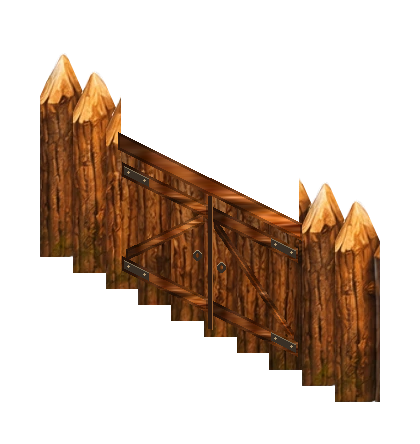
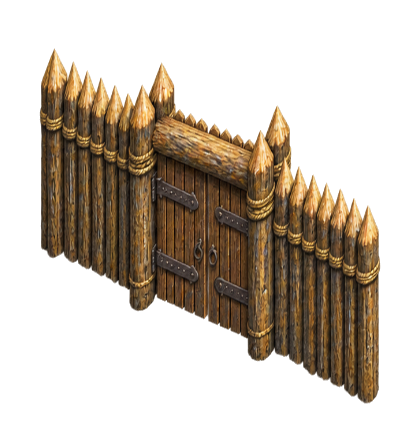
feat(art): replace procedural timber gates with five AI-painted directional sprites

diff --git a/index.html b/index.html
@@ -408,11 +408,11 @@ Ihre Form wird ausschließlich im Bergwerkzeug eingestellt. Ihre Deckkraft folgt
 window.VedrasCloudsDisabled=new URLSearchParams(location.search).get('clouds')!=='1';</script>
 <script src="asset-image-pool.js?v=0.3.1&amp;step11=20261028"></script><script src="render-quality-policy.js?v=0.1.0&amp;terrain=quality-source-20261117"></script><script src="gpu-terrain.js?v=0.2.0&amp;uvHighp=20261122"></script><script src="strategic-view.js?v=0.1.0"></script><script src="static-terrain-cache.js?v=0.1.0"></script><script src="render-benchmark-profiler.js?v=0.1.0"></script>
 <script src="render-step15-trace.js?v=0.1.0"></script>
-<script src="sprite-atlas-runtime.js?v=0.3.0"></script><script src="worldgen-geography.js?v=2.1.2"></script><script src="geography-io.js?v=20261120-io-v1"></script><script src="catalog.js?v=0.18.0"></script><script src="terrain-source-rules.js?v=0.18.0"></script><script src="water-texture.js?v=20261119-forest-seamless-v2"></script><script src="autotile.js?v=20261119-ground-wrap-v1"></script><script src="chunks.js?v=0.37.1&amp;step16b=20261101-offscreen1"></script><script src="terrain-worker-client.js?v=20261119-ground-wrap-v1"></script><script src="nature_catalog.js?v=20261121-desert-trees-v1"></script><script src="flora-plan.js?v=0.17.0"></script><script src="terrain-plan.js?v=0.18.0"></script><script src="sprite-planner.js?v=0.16.0"></script><script src="existing-asset-rules.js?v=20261121-desert-trees-v1"></script><script src="forest.js?v=20261122-canopy-variation-v1"></script><script src="forest-ground.js?v=20261120-organic-v1&amp;softSnow=20261122"></script><script src="nature-balance.js?v=0.36.1"></script><script src="polish.js?v=0.21.0"></script><script src="relief.js?v=0.35.0"></script><script src="shoreline.js?v=0.30.1&amp;artfix=20261027"></script><script src="river.js?v=0.30.0"></script><script src="river-banks.js?v=0.2.0"></script><script src="mountain.js?v=0.11.0"></script><script src="roads.js?v=0.31.0"></script><script src="walls.js?v=20261124-palisade-gates-raster-v2"></script><script src="bridges.js?v=0.28.0"></script><script src="shadow-tone.js?v=20261122-shadow-union-v1"></script><script src="shadow-system.js?v=20261122-gray-all-v1"></script><script src="shadow-shapes.js?v=20261122-gray-all-v1"></script><script src="sprite-shadow-editor.js?v=20261122-shadow-union-v1"></script><script src="shadow-painter-ui.js?v=0.1.0"></script><script src="object-layout-cache.js?v=0.2.0"></script><script src="static-object-layer.js?v=0.2.0"></script><script src="gpu-sprite-layer.js?v=0.1.0"></script><script src="frame-preparation-cache.js?v=0.1.0"></script><script src="adaptive-lod.js?v=0.1.1&amp;step10=20261027"></script><script src="realtime-map-renderer.js?v=0.1.1"></script><script src="cloud-artwork.js?v=0.22.4&amp;step12=20261028"></script><script src="fog-atmosphere.js?v=0.22.4"></script><script src="quick-terrain-preview.js?v=20261101-1"></script>
+<script src="sprite-atlas-runtime.js?v=0.3.0"></script><script src="worldgen-geography.js?v=2.1.2"></script><script src="geography-io.js?v=20261120-io-v1"></script><script src="catalog.js?v=0.18.0"></script><script src="terrain-source-rules.js?v=0.18.0"></script><script src="water-texture.js?v=20261119-forest-seamless-v2"></script><script src="autotile.js?v=20261119-ground-wrap-v1"></script><script src="chunks.js?v=0.37.1&amp;step16b=20261101-offscreen1"></script><script src="terrain-worker-client.js?v=20261119-ground-wrap-v1"></script><script src="nature_catalog.js?v=20261121-desert-trees-v1"></script><script src="flora-plan.js?v=0.17.0"></script><script src="terrain-plan.js?v=0.18.0"></script><script src="sprite-planner.js?v=0.16.0"></script><script src="existing-asset-rules.js?v=20261121-desert-trees-v1"></script><script src="forest.js?v=20261122-canopy-variation-v1"></script><script src="forest-ground.js?v=20261120-organic-v1&amp;softSnow=20261122"></script><script src="nature-balance.js?v=0.36.1"></script><script src="polish.js?v=0.21.0"></script><script src="relief.js?v=0.35.0"></script><script src="shoreline.js?v=0.30.1&amp;artfix=20261027"></script><script src="river.js?v=0.30.0"></script><script src="river-banks.js?v=0.2.0"></script><script src="mountain.js?v=0.11.0"></script><script src="roads.js?v=0.31.0"></script><script src="walls.js?v=20261124-palisade-gates-ai-v3"></script><script src="bridges.js?v=0.28.0"></script><script src="shadow-tone.js?v=20261122-shadow-union-v1"></script><script src="shadow-system.js?v=20261122-gray-all-v1"></script><script src="shadow-shapes.js?v=20261122-gray-all-v1"></script><script src="sprite-shadow-editor.js?v=20261122-shadow-union-v1"></script><script src="shadow-painter-ui.js?v=0.1.0"></script><script src="object-layout-cache.js?v=0.2.0"></script><script src="static-object-layer.js?v=0.2.0"></script><script src="gpu-sprite-layer.js?v=0.1.0"></script><script src="frame-preparation-cache.js?v=0.1.0"></script><script src="adaptive-lod.js?v=0.1.1&amp;step10=20261027"></script><script src="realtime-map-renderer.js?v=0.1.1"></script><script src="cloud-artwork.js?v=0.22.4&amp;step12=20261028"></script><script src="fog-atmosphere.js?v=0.22.4"></script><script src="quick-terrain-preview.js?v=20261101-1"></script>
 <script src="frozen-map-package.js?v=20261101-2"></script>
 <script src="authored-world-contract.js?v=20261118-semantic-world-v1"></script>
 <script src="frozen-map-runtime.js?v=20261118-near-archive-audit-v4&amp;edgePolicy=20261119&amp;linkedAudit=20261122&amp;coreScene=20261122"></script>
 <script src="frozen-ground-core-seams.js?v=20261120-owned-core-gate-v1&amp;hexTip=20261122"></script>
 <script src="world-tile-streamer.js?v=0.22.6&amp;fix=exact-lod-20261117&amp;clouds=off-20261120&amp;coreFilter=20261122"></script>
-<script src="world-tile-ground-reuse.js?v=0.1.0"></script><script src="app.js?v=20261120-organic-v1&amp;diagnostics=20261121&amp;shadows=partial-20261121&amp;edgeCore=20261122&amp;localPreview=20261122&amp;softSnow=20261122&amp;grayAll=20261122&amp;shadowUnion=20261122&amp;footGate=20261122&amp;walls=20261124-palisade-gates-raster-v2&amp;coreScene=20261122&amp;geography=2.1.2&amp;geographyIO=20261120&amp;clouds=off-20261120"></script><script src="nature-ui.js?v=20261122-open-trees-v1&amp;alpineShrubs=20261122&amp;wallClear=20261124"></script><script src="road-ui.js?v=0.28.0"></script><script src="wall-ui.js?v=20261124-palisade-gates-raster-v2"></script><script src="ui-organizer.js?v=20261122-shadow-gray-shortcut-v1"></script><script src="forest-ui.js?v=20261122-canopy-variation-v1"></script><script src="river-ui.js?v=0.15.0"></script><script src="flora-workspace.js?v=0.13.0"></script>
+<script src="world-tile-ground-reuse.js?v=0.1.0"></script><script src="app.js?v=20261120-organic-v1&amp;diagnostics=20261121&amp;shadows=partial-20261121&amp;edgeCore=20261122&amp;localPreview=20261122&amp;softSnow=20261122&amp;grayAll=20261122&amp;shadowUnion=20261122&amp;footGate=20261122&amp;walls=20261124-palisade-gates-ai-v3&amp;coreScene=20261122&amp;geography=2.1.2&amp;geographyIO=20261120&amp;clouds=off-20261120"></script><script src="nature-ui.js?v=20261122-open-trees-v1&amp;alpineShrubs=20261122&amp;wallClear=20261124"></script><script src="road-ui.js?v=0.28.0"></script><script src="wall-ui.js?v=20261124-palisade-gates-ai-v3"></script><script src="ui-organizer.js?v=20261122-shadow-gray-shortcut-v1"></script><script src="forest-ui.js?v=20261122-canopy-variation-v1"></script><script src="river-ui.js?v=0.15.0"></script><script src="flora-workspace.js?v=0.13.0"></script>
 </body></html>

diff --git a/walls.js b/walls.js
@@ -331,7 +331,7 @@ window.VedrasWalls=(()=>{
    const image=new Image();palisadeGateArt.set(side,image);
    pending.push(new Promise(resolve=>{
     image.onload=()=>resolve(true);image.onerror=()=>resolve(false);
-    image.src='assets/walls/palisade/gates/v1/gate_dir'+side+'.png?v=20261124-timber-gates-raster-v2';
+    image.src='assets/walls/palisade/gates/v1/gate_dir'+side+'.png?v=20261124-timber-gates-ai-v3';
    }));
   }
   for(const name of ['corner_post','end_post']){

diff --git a/app.js b/app.js
@@ -4421,6 +4421,7 @@ function frozenSceneKey({force4x=false}={}){
   'wall-nature-persistent-clearance-v1',
   'palisade-closed-gates-v1',
   'palisade-native-rgba-gates-v2',
+  'palisade-ai-painted-gates-v3',
   'forest-floor-wrap-v1',
   'organic-forest-fringes-and-soft-snow-v4',
   // Strict source-core alpha stabilization and read-only seam publication

diff --git a/assets/walls/palisade/gates/v1/README.md b/assets/walls/palisade/gates/v1/README.md
@@ -1,3 +1,3 @@
-# Closed timber gates — raster v2
+# Closed palisade gates — AI-painted v3
 
-Six transparent native RGBA PNG game sprites, repainted in pixels using the original painted palisade v5 WebP timber grain. No SVG source is used or rasterized. All original directional image sizes and world anchors are preserved. Diagonal closed double leaves use textured bracing, iron hinges and a lintel. Edge-on gates have wider central timber assemblies, no frontal doors, and retain both original ends. Existing join sprites, lighting/shadow logic, wall placement and vegetation clearance are reused unchanged. Generated reproducibly by `scripts/build_palisade_gate_raster_v1.py`.
+Five newly generated raster paintings, inspired by medieval RTS timber gates and matched to the accepted palisade v5 style. SO (2) and SW (3) are separate generated images. NO (0), O (1) and W (4) were extracted from a generated three-sprite sheet. NW (5) points to byte-identical SO artwork (same Git blob), using the original NW placement metadata. Only alpha cleanup, cropping, and affine calibration to existing palisade dimensions and foot lines were applied. No SVG or programmatically drawn gate components. Diagonal PNGs retain 420/423 × 444 canvases and edge-on PNGs 84 × 630. Existing palisades, piers, stone gates, geometry, and vegetation clearance are unchanged. The earlier procedural generator and its build workflow are retired. Visual approval in the actual editor remains separate from technical checks.
